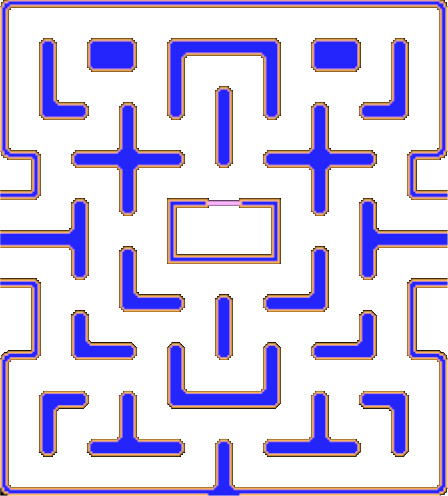
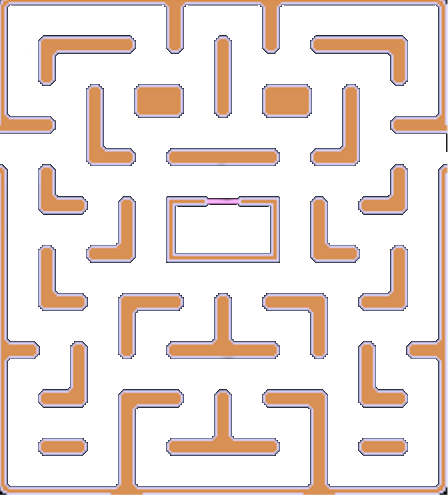
Add pellets to mazes and generate C++ headers from the maze images

diff --git a/lib/include/Mazes.hpp b/lib/include/Mazes.hpp
@@ -1,0 +1,140 @@
+#pragma once
+
+#include <array>
+
+constexpr std::array<std::array<int, 28>, 31> maze1_data = {{
+{0, 0, 0, 0, 0, 0, 0, 0, 0, 0, 0, 0, 0, 0, 0, 0, 0, 0, 0, 0, 0, 0, 0, 0, 0, 0, 0, 0},
+{0, 1, 1, 1, 1, 1, 1, 0, 0, 1, 1, 1, 1, 1, 1, 1, 1, 1, 1, 0, 0, 1, 1, 1, 1, 1, 1, 0},
+{0, 4, 0, 0, 0, 0, 1, 0, 0, 1, 0, 0, 0, 0, 0, 0, 0, 0, 1, 0, 0, 1, 0, 0, 0, 0, 4, 0},
+{0, 1, 0, 0, 0, 0, 1, 0, 0, 1, 0, 0, 0, 0, 0, 0, 0, 0, 1, 0, 0, 1, 0, 0, 0, 0, 1, 0},
+{0, 1, 1, 1, 1, 1, 1, 1, 1, 1, 1, 1, 1, 1, 1, 1, 1, 1, 1, 1, 1, 1, 1, 1, 1, 1, 1, 0},
+{0, 0, 0, 1, 0, 0, 1, 0, 0, 0, 0, 0, 1, 0, 0, 1, 0, 0, 0, 0, 0, 1, 0, 0, 1, 0, 0, 0},
+{0, 0, 0, 1, 0, 0, 1, 0, 0, 0, 0, 0, 1, 0, 0, 1, 0, 0, 0, 0, 0, 1, 0, 0, 1, 0, 0, 0},
+{0, 0, 0, 1, 0, 0, 1, 0, 0, 0, 0, 0, 1, 0, 0, 1, 0, 0, 0, 0, 0, 1, 0, 0, 1, 0, 0, 0},
+{2, 2, 2, 1, 0, 0, 1, 1, 1, 1, 1, 1, 1, 0, 0, 1, 1, 1, 1, 1, 1, 1, 0, 0, 1, 2, 2, 2},
+{0, 0, 0, 1, 0, 0, 0, 0, 0, 2, 0, 0, 0, 0, 0, 0, 0, 0, 2, 0, 0, 0, 0, 0, 1, 0, 0, 0},
+{0, 0, 0, 1, 0, 0, 0, 0, 0, 2, 0, 0, 0, 0, 0, 0, 0, 0, 2, 0, 0, 0, 0, 0, 1, 0, 0, 0},
+{0, 0, 0, 1, 2, 2, 2, 2, 2, 2, 2, 2, 2, 2, 2, 2, 2, 2, 2, 2, 2, 2, 2, 2, 1, 0, 0, 0},
+{0, 0, 0, 1, 0, 0, 0, 0, 0, 2, 0, 0, 0, 2, 2, 0, 0, 0, 2, 0, 0, 0, 0, 0, 1, 0, 0, 0},
+{0, 0, 0, 1, 0, 0, 0, 0, 0, 2, 0, 5, 5, 5, 5, 5, 5, 0, 2, 0, 0, 0, 0, 0, 1, 0, 0, 0},
+{0, 0, 0, 1, 0, 0, 2, 2, 2, 2, 0, 5, 5, 5, 5, 5, 5, 0, 2, 2, 2, 2, 0, 0, 1, 0, 0, 0},
+{0, 0, 0, 1, 0, 0, 2, 0, 0, 2, 0, 5, 5, 5, 5, 5, 5, 0, 2, 0, 0, 2, 0, 0, 1, 0, 0, 0},
+{0, 0, 0, 1, 0, 0, 2, 0, 0, 2, 0, 0, 0, 0, 0, 0, 0, 0, 2, 0, 0, 2, 0, 0, 1, 0, 0, 0},
+{2, 2, 2, 1, 2, 2, 2, 0, 0, 2, 2, 2, 2, 2, 2, 2, 2, 2, 2, 0, 0, 2, 2, 2, 1, 2, 2, 2},
+{0, 0, 0, 1, 0, 0, 0, 0, 0, 0, 0, 0, 2, 0, 0, 2, 0, 0, 0, 0, 0, 0, 0, 0, 1, 0, 0, 0},
+{0, 0, 0, 1, 0, 0, 0, 0, 0, 0, 0, 0, 2, 0, 0, 2, 0, 0, 0, 0, 0, 0, 0, 0, 1, 0, 0, 0},
+{0, 0, 0, 1, 1, 1, 1, 1, 1, 1, 1, 2, 2, 0, 0, 2, 2, 1, 1, 1, 1, 1, 1, 1, 1, 0, 0, 0},
+{0, 0, 0, 1, 0, 0, 0, 0, 0, 1, 0, 0, 0, 0, 0, 0, 0, 0, 1, 0, 0, 0, 0, 0, 1, 0, 0, 0},
+{0, 0, 0, 1, 0, 0, 0, 0, 0, 1, 0, 0, 0, 0, 0, 0, 0, 0, 1, 0, 0, 0, 0, 0, 1, 0, 0, 0},
+{0, 1, 1, 1, 1, 1, 1, 1, 1, 1, 1, 1, 1, 1, 1, 1, 1, 1, 1, 1, 1, 1, 1, 1, 1, 1, 1, 0},
+{0, 1, 0, 0, 0, 0, 1, 0, 0, 0, 0, 0, 1, 0, 0, 1, 0, 0, 0, 0, 0, 1, 0, 0, 0, 0, 1, 0},
+{0, 1, 0, 0, 0, 0, 1, 0, 0, 0, 0, 0, 1, 0, 0, 1, 0, 0, 0, 0, 0, 1, 0, 0, 0, 0, 1, 0},
+{0, 1, 0, 0, 0, 0, 1, 0, 0, 1, 1, 1, 1, 0, 0, 1, 1, 1, 1, 0, 0, 1, 0, 0, 0, 0, 1, 0},
+{0, 4, 0, 0, 0, 0, 1, 0, 0, 1, 0, 0, 0, 0, 0, 0, 0, 0, 1, 0, 0, 1, 0, 0, 0, 0, 4, 0},
+{0, 1, 0, 0, 0, 0, 1, 0, 0, 1, 0, 0, 0, 0, 0, 0, 0, 0, 1, 0, 0, 1, 0, 0, 0, 0, 1, 0},
+{0, 1, 1, 1, 1, 1, 1, 1, 1, 1, 1, 1, 1, 1, 1, 1, 1, 1, 1, 1, 1, 1, 1, 1, 1, 1, 1, 0},
+{0, 0, 0, 0, 0, 0, 0, 0, 0, 0, 0, 0, 0, 0, 0, 0, 0, 0, 0, 0, 0, 0, 0, 0, 0, 0, 0, 0},
+}};
+
+constexpr std::array<std::array<int, 28>, 31> maze2_data = {{
+{0, 0, 0, 0, 0, 0, 0, 0, 0, 0, 0, 0, 0, 0, 0, 0, 0, 0, 0, 0, 0, 0, 0, 0, 0, 0, 0, 0},
+{2, 2, 2, 2, 2, 2, 2, 0, 0, 1, 1, 1, 1, 1, 1, 1, 1, 1, 1, 0, 0, 2, 2, 2, 2, 2, 2, 2},
+{0, 0, 0, 0, 0, 0, 2, 0, 0, 1, 0, 0, 0, 0, 0, 0, 0, 0, 1, 0, 0, 2, 0, 0, 0, 0, 0, 0},
+{0, 0, 0, 0, 0, 0, 2, 0, 0, 1, 0, 0, 0, 0, 0, 0, 0, 0, 1, 0, 0, 2, 0, 0, 0, 0, 0, 0},
+{0, 4, 1, 1, 1, 1, 1, 1, 1, 1, 1, 1, 1, 0, 0, 1, 1, 1, 1, 1, 1, 1, 1, 1, 1, 1, 4, 0},
+{0, 1, 0, 0, 0, 0, 0, 0, 0, 1, 0, 0, 1, 0, 0, 1, 0, 0, 1, 0, 0, 0, 0, 0, 0, 0, 1, 0},
+{0, 1, 0, 0, 0, 0, 0, 0, 0, 1, 0, 0, 1, 0, 0, 1, 0, 0, 1, 0, 0, 0, 0, 0, 0, 0, 1, 0},
+{0, 1, 0, 0, 1, 1, 1, 1, 1, 1, 0, 0, 1, 0, 0, 1, 0, 0, 1, 1, 1, 1, 1, 1, 0, 0, 1, 0},
+{0, 1, 0, 0, 1, 0, 0, 0, 0, 2, 0, 0, 1, 1, 1, 1, 0, 0, 2, 0, 0, 0, 0, 1, 0, 0, 1, 0},
+{0, 1, 0, 0, 1, 0, 0, 0, 0, 2, 0, 0, 0, 0, 0, 0, 0, 0, 2, 0, 0, 0, 0, 1, 0, 0, 1, 0},
+{0, 1, 1, 1, 1, 1, 1, 0, 0, 2, 0, 0, 0, 0, 0, 0, 0, 0, 2, 0, 0, 1, 1, 1, 1, 1, 1, 0},
+{0, 0, 0, 0, 0, 0, 1, 0, 0, 2, 2, 2, 2, 2, 2, 2, 2, 2, 2, 0, 0, 1, 0, 0, 0, 0, 0, 0},
+{0, 0, 0, 0, 0, 0, 1, 0, 0, 2, 0, 0, 0, 2, 2, 0, 0, 0, 2, 0, 0, 1, 0, 0, 0, 0, 0, 0},
+{0, 1, 1, 1, 1, 1, 1, 0, 0, 2, 0, 5, 5, 5, 5, 5, 5, 0, 2, 0, 0, 1, 1, 1, 1, 1, 1, 0},
+{0, 1, 0, 0, 0, 0, 1, 0, 0, 2, 0, 5, 5, 5, 5, 5, 5, 0, 2, 0, 0, 1, 0, 0, 0, 0, 1, 0},
+{0, 1, 0, 0, 0, 0, 1, 2, 2, 2, 0, 5, 5, 5, 5, 5, 5, 0, 2, 2, 2, 1, 0, 0, 0, 0, 1, 0},
+{0, 1, 1, 1, 0, 0, 1, 0, 0, 2, 0, 0, 0, 0, 0, 0, 0, 0, 2, 0, 0, 1, 0, 0, 1, 1, 1, 0},
+{0, 0, 0, 1, 0, 0, 1, 0, 0, 2, 2, 2, 2, 2, 2, 2, 2, 2, 2, 0, 0, 1, 0, 0, 1, 0, 0, 0},
+{0, 0, 0, 1, 0, 0, 1, 0, 0, 0, 0, 2, 0, 0, 0, 0, 2, 0, 0, 0, 0, 1, 0, 0, 1, 0, 0, 0},
+{0, 0, 0, 1, 0, 0, 1, 0, 0, 0, 0, 2, 0, 0, 0, 0, 2, 0, 0, 0, 0, 1, 0, 0, 1, 0, 0, 0},
+{0, 0, 0, 1, 1, 1, 1, 1, 1, 1, 1, 1, 0, 0, 0, 0, 1, 1, 1, 1, 1, 1, 1, 1, 1, 0, 0, 0},
+{0, 0, 0, 1, 0, 0, 0, 0, 0, 0, 0, 1, 0, 0, 0, 0, 1, 0, 0, 0, 0, 0, 0, 0, 1, 0, 0, 0},
+{0, 0, 0, 1, 0, 0, 0, 0, 0, 0, 0, 1, 0, 0, 0, 0, 1, 0, 0, 0, 0, 0, 0, 0, 1, 0, 0, 0},
+{2, 2, 2, 1, 1, 1, 1, 0, 0, 1, 1, 1, 1, 1, 1, 1, 1, 1, 1, 0, 0, 1, 1, 1, 1, 2, 2, 2},
+{0, 0, 0, 1, 0, 0, 1, 0, 0, 1, 0, 0, 0, 0, 0, 0, 0, 0, 1, 0, 0, 1, 0, 0, 1, 0, 0, 0},
+{0, 0, 0, 1, 0, 0, 1, 0, 0, 1, 0, 0, 0, 0, 0, 0, 0, 0, 1, 0, 0, 1, 0, 0, 1, 0, 0, 0},
+{0, 4, 1, 1, 0, 0, 1, 1, 1, 1, 1, 1, 1, 0, 0, 1, 1, 1, 1, 1, 1, 1, 0, 0, 1, 1, 1, 0},
+{0, 1, 0, 0, 0, 0, 1, 0, 0, 0, 0, 0, 1, 0, 0, 1, 0, 0, 0, 0, 0, 1, 0, 0, 0, 0, 1, 0},
+{0, 1, 0, 0, 0, 0, 1, 0, 0, 0, 0, 0, 1, 0, 0, 1, 0, 0, 0, 0, 0, 1, 0, 0, 0, 0, 1, 0},
+{0, 1, 1, 1, 1, 1, 1, 1, 1, 1, 1, 1, 1, 1, 1, 1, 1, 1, 1, 1, 1, 1, 1, 1, 1, 1, 1, 0},
+{0, 0, 0, 0, 0, 0, 0, 0, 0, 0, 0, 0, 0, 0, 0, 0, 0, 0, 0, 0, 0, 0, 0, 0, 0, 0, 0, 0},
+}};
+
+constexpr std::array<std::array<int, 28>, 31> maze3_data = {{
+{0, 0, 0, 0, 0, 0, 0, 0, 0, 0, 0, 0, 0, 0, 0, 0, 0, 0, 0, 0, 0, 0, 0, 0, 0, 0, 0, 0},
+{0, 1, 1, 1, 1, 1, 1, 1, 1, 1, 0, 0, 1, 1, 1, 1, 0, 0, 1, 1, 1, 1, 1, 1, 1, 1, 1, 0},
+{0, 1, 0, 0, 0, 0, 0, 0, 0, 1, 0, 0, 1, 0, 0, 1, 0, 0, 1, 0, 0, 0, 0, 0, 0, 0, 1, 0},
+{0, 4, 0, 0, 0, 0, 0, 0, 0, 1, 0, 0, 1, 0, 0, 1, 0, 0, 1, 0, 0, 0, 0, 0, 0, 0, 4, 0},
+{0, 1, 0, 0, 1, 1, 1, 1, 1, 1, 1, 1, 1, 0, 0, 1, 1, 1, 1, 1, 1, 1, 1, 1, 0, 0, 1, 0},
+{0, 1, 0, 0, 1, 0, 0, 1, 0, 0, 0, 0, 1, 0, 0, 1, 0, 0, 0, 0, 1, 0, 0, 1, 0, 0, 1, 0},
+{0, 1, 1, 1, 1, 0, 0, 1, 0, 0, 0, 0, 1, 0, 0, 1, 0, 0, 0, 0, 1, 0, 0, 1, 1, 1, 1, 0},
+{0, 0, 0, 0, 1, 0, 0, 1, 0, 0, 0, 0, 1, 0, 0, 1, 0, 0, 0, 0, 1, 0, 0, 1, 0, 0, 0, 0},
+{0, 0, 0, 0, 1, 0, 0, 1, 1, 1, 1, 1, 1, 1, 1, 1, 1, 1, 1, 1, 1, 0, 0, 1, 0, 0, 0, 0},
+{1, 1, 1, 1, 1, 0, 0, 0, 0, 2, 0, 0, 0, 0, 0, 0, 0, 0, 2, 0, 0, 0, 0, 1, 1, 1, 1, 1},
+{0, 1, 0, 0, 1, 0, 0, 0, 0, 2, 0, 0, 0, 0, 0, 0, 0, 0, 2, 0, 0, 0, 0, 2, 0, 0, 1, 0},
+{0, 1, 0, 0, 2, 2, 2, 2, 2, 2, 2, 2, 2, 2, 2, 2, 2, 2, 2, 2, 2, 2, 2, 2, 0, 0, 1, 0},
+{0, 1, 0, 0, 0, 0, 2, 0, 0, 2, 0, 0, 0, 2, 2, 0, 0, 0, 2, 0, 0, 2, 0, 0, 0, 0, 1, 0},
+{0, 1, 0, 0, 0, 0, 2, 0, 0, 2, 0, 5, 5, 5, 5, 5, 5, 0, 2, 0, 0, 2, 0, 0, 0, 0, 1, 0},
+{0, 1, 2, 2, 2, 2, 2, 0, 0, 2, 0, 5, 5, 5, 5, 5, 5, 0, 2, 0, 0, 2, 2, 2, 2, 2, 1, 0},
+{0, 1, 0, 0, 2, 0, 0, 0, 0, 2, 0, 5, 5, 5, 5, 5, 5, 0, 2, 0, 0, 0, 0, 2, 0, 0, 1, 0},
+{0, 1, 0, 0, 2, 0, 0, 0, 0, 2, 0, 0, 0, 0, 0, 0, 0, 0, 2, 0, 0, 0, 0, 2, 0, 0, 1, 0},
+{0, 1, 0, 0, 2, 2, 2, 2, 2, 2, 2, 2, 2, 2, 2, 2, 2, 2, 2, 2, 2, 2, 2, 2, 0, 0, 1, 0},
+{0, 1, 0, 0, 0, 0, 2, 0, 0, 0, 0, 0, 2, 0, 0, 2, 0, 0, 0, 0, 0, 2, 0, 0, 0, 0, 1, 0},
+{0, 1, 0, 0, 0, 0, 2, 0, 0, 0, 0, 0, 2, 0, 0, 2, 0, 0, 0, 0, 0, 2, 0, 0, 0, 0, 1, 0},
+{0, 1, 1, 1, 1, 1, 1, 0, 0, 1, 1, 1, 1, 0, 0, 1, 1, 1, 1, 0, 0, 1, 1, 1, 1, 1, 1, 0},
+{0, 0, 0, 1, 0, 0, 1, 0, 0, 1, 0, 0, 0, 0, 0, 0, 0, 0, 1, 0, 0, 1, 0, 0, 1, 0, 0, 0},
+{0, 0, 0, 1, 0, 0, 1, 0, 0, 1, 0, 0, 0, 0, 0, 0, 0, 0, 1, 0, 0, 1, 0, 0, 1, 0, 0, 0},
+{0, 4, 1, 1, 0, 0, 1, 1, 1, 1, 1, 1, 1, 1, 1, 1, 1, 1, 1, 1, 1, 1, 0, 0, 1, 1, 4, 0},
+{0, 1, 0, 0, 0, 0, 1, 0, 0, 0, 0, 0, 1, 0, 0, 1, 0, 0, 0, 0, 0, 1, 0, 0, 0, 0, 1, 0},
+{0, 1, 0, 0, 0, 0, 1, 0, 0, 0, 0, 0, 1, 0, 0, 1, 0, 0, 0, 0, 0, 1, 0, 0, 0, 0, 1, 0},
+{0, 1, 1, 1, 1, 1, 1, 0, 0, 1, 1, 1, 1, 0, 0, 1, 1, 1, 1, 0, 0, 1, 1, 1, 1, 1, 1, 0},
+{0, 1, 0, 0, 0, 0, 1, 0, 0, 1, 0, 0, 0, 0, 0, 0, 0, 0, 1, 0, 0, 1, 0, 0, 0, 0, 1, 0},
+{0, 1, 0, 0, 0, 0, 1, 0, 0, 1, 0, 0, 0, 0, 0, 0, 0, 0, 1, 0, 0, 1, 0, 0, 0, 0, 1, 0},
+{0, 1, 1, 1, 1, 1, 1, 0, 0, 1, 1, 1, 1, 1, 1, 1, 1, 1, 1, 0, 0, 1, 1, 1, 1, 1, 1, 0},
+{0, 0, 0, 0, 0, 0, 0, 0, 0, 0, 0, 0, 0, 0, 0, 0, 0, 0, 0, 0, 0, 0, 0, 0, 0, 0, 0, 0},
+}};
+
+constexpr std::array<std::array<int, 28>, 31> maze4_data = {{
+{0, 0, 0, 0, 0, 0, 0, 0, 0, 0, 0, 0, 0, 0, 0, 0, 0, 0, 0, 0, 0, 0, 0, 0, 0, 0, 0, 0},
+{0, 1, 1, 1, 1, 1, 1, 1, 1, 1, 1, 1, 1, 1, 1, 1, 1, 1, 1, 1, 1, 1, 1, 1, 1, 1, 1, 0},
+{0, 1, 0, 0, 1, 0, 0, 0, 0, 1, 0, 0, 0, 0, 0, 0, 0, 0, 1, 0, 0, 0, 0, 1, 0, 0, 1, 0},
+{0, 4, 0, 0, 1, 0, 0, 0, 0, 1, 0, 0, 0, 0, 0, 0, 0, 0, 1, 0, 0, 0, 0, 1, 0, 0, 4, 0},
+{0, 1, 0, 0, 1, 0, 0, 0, 0, 1, 0, 0, 1, 1, 1, 1, 0, 0, 1, 0, 0, 0, 0, 1, 0, 0, 1, 0},
+{0, 1, 0, 0, 1, 1, 1, 1, 1, 1, 0, 0, 1, 0, 0, 1, 0, 0, 1, 1, 1, 1, 1, 1, 0, 0, 1, 0},
+{0, 1, 0, 0, 0, 0, 1, 0, 0, 1, 0, 0, 1, 0, 0, 1, 0, 0, 1, 0, 0, 1, 0, 0, 0, 0, 1, 0},
+{0, 1, 0, 0, 0, 0, 1, 0, 0, 1, 0, 0, 1, 0, 0, 1, 0, 0, 1, 0, 0, 1, 0, 0, 0, 0, 1, 0},
+{0, 1, 1, 1, 1, 1, 1, 0, 0, 1, 1, 1, 1, 0, 0, 1, 1, 1, 1, 0, 0, 1, 1, 1, 1, 1, 1, 0},
+{0, 0, 0, 1, 0, 0, 0, 0, 0, 0, 0, 0, 2, 0, 0, 2, 0, 0, 0, 0, 0, 0, 0, 0, 1, 0, 0, 0},
+{0, 0, 0, 1, 0, 0, 0, 0, 0, 0, 0, 0, 2, 0, 0, 2, 0, 0, 0, 0, 0, 0, 0, 0, 1, 0, 0, 0},
+{0, 0, 0, 1, 1, 1, 1, 0, 0, 2, 2, 2, 2, 2, 2, 2, 2, 2, 2, 0, 0, 1, 1, 1, 1, 0, 0, 0},
+{0, 0, 0, 2, 0, 0, 1, 0, 0, 2, 0, 0, 0, 2, 2, 0, 0, 0, 2, 0, 0, 1, 0, 0, 2, 0, 0, 0},
+{2, 2, 2, 2, 0, 0, 1, 0, 0, 2, 0, 5, 5, 5, 5, 5, 5, 0, 2, 0, 0, 1, 0, 0, 2, 2, 2, 2},
+{0, 0, 0, 0, 0, 0, 1, 2, 2, 2, 0, 5, 5, 5, 5, 5, 5, 0, 2, 2, 2, 1, 0, 0, 0, 0, 0, 0},
+{0, 0, 0, 0, 0, 0, 1, 0, 0, 2, 0, 5, 5, 5, 5, 5, 5, 0, 2, 0, 0, 1, 0, 0, 0, 0, 0, 0},
+{2, 2, 2, 2, 0, 0, 1, 0, 0, 2, 0, 0, 0, 0, 0, 0, 0, 0, 2, 0, 0, 1, 0, 0, 2, 2, 2, 2},
+{0, 0, 0, 2, 0, 0, 1, 0, 0, 2, 2, 2, 2, 2, 2, 2, 2, 2, 2, 0, 0, 1, 0, 0, 2, 0, 0, 0},
+{0, 0, 0, 1, 1, 1, 1, 0, 0, 0, 0, 0, 2, 0, 0, 2, 0, 0, 0, 0, 0, 1, 1, 1, 1, 0, 0, 0},
+{0, 0, 0, 1, 0, 0, 1, 0, 0, 0, 0, 0, 2, 0, 0, 2, 0, 0, 0, 0, 0, 1, 0, 0, 1, 0, 0, 0},
+{0, 0, 0, 1, 0, 0, 1, 1, 1, 1, 1, 1, 2, 0, 0, 2, 1, 1, 1, 1, 1, 1, 0, 0, 1, 0, 0, 0},
+{0, 0, 0, 1, 0, 0, 0, 0, 0, 1, 0, 0, 2, 0, 0, 2, 0, 0, 1, 0, 0, 0, 0, 0, 1, 0, 0, 0},
+{0, 0, 0, 1, 0, 0, 0, 0, 0, 1, 0, 0, 2, 0, 0, 2, 0, 0, 1, 0, 0, 0, 0, 0, 1, 0, 0, 0},
+{0, 1, 1, 1, 1, 1, 1, 1, 1, 1, 0, 0, 2, 2, 2, 2, 0, 0, 1, 1, 1, 1, 1, 1, 1, 1, 1, 0},
+{0, 1, 0, 0, 0, 0, 1, 0, 0, 1, 0, 0, 0, 0, 0, 0, 0, 0, 1, 0, 0, 1, 0, 0, 0, 0, 1, 0},
+{0, 1, 0, 0, 0, 0, 1, 0, 0, 1, 0, 0, 0, 0, 0, 0, 0, 0, 1, 0, 0, 1, 0, 0, 0, 0, 1, 0},
+{0, 1, 0, 0, 1, 1, 1, 0, 0, 1, 1, 1, 1, 1, 1, 1, 1, 1, 1, 0, 0, 1, 1, 1, 0, 0, 1, 0},
+{0, 4, 0, 0, 1, 0, 0, 0, 0, 0, 0, 0, 1, 0, 0, 1, 0, 0, 0, 0, 0, 0, 0, 1, 0, 0, 4, 0},
+{0, 1, 0, 0, 1, 0, 0, 0, 0, 0, 0, 0, 1, 0, 0, 1, 0, 0, 0, 0, 0, 0, 0, 1, 0, 0, 1, 0},
+{0, 1, 1, 1, 1, 1, 1, 1, 1, 1, 1, 1, 1, 0, 0, 1, 1, 1, 1, 1, 1, 1, 1, 1, 1, 1, 1, 0},
+{0, 0, 0, 0, 0, 0, 0, 0, 0, 0, 0, 0, 0, 0, 0, 0, 0, 0, 0, 0, 0, 0, 0, 0, 0, 0, 0, 0},
+}};
+

diff --git a/assets/mazes_to_header.py b/assets/mazes_to_header.py
@@ -1,0 +1,31 @@
+from PIL import Image
+from pathlib import Path
+import math
+import sys;
+
+color_mapping = {
+    0xFFFFFF: 2, # path
+    0x000000: 0, # wall
+    0xFF0000: 5, # pen
+    0xFFFF00: 2, # pen door
+    0x00FF00: 4, # super pellet
+    0x0000FF: 1 # pellet
+}
+
+def fromRGB(c):
+    return (c[0]<<16) + (c[1]<<8) + c[2]
+
+def dump_as_array(path):
+    img  = Image.open(path)
+    w = img.size[0]
+    h = img.size[1]
+    name = Path(path).stem
+    print("constexpr std::array<std::array<int, {}>, {}> {} = {{{{".format(w, h, name))
+    for y in range(0, h):
+        print("{{{}{}{}".format(", ".join([str(color_mapping[fromRGB(img.getpixel((x, y)))]) for x in range(0, w)]), "}", "," if x < h-1 else "", "\n"))
+    print("}};\n")
+
+print("{}\n".format("#pragma once"))
+print("{}\n".format("#include <array>"))
+for n in range(1, len(sys.argv)):
+    dump_as_array(sys.argv[n])

diff --git a/lib/include/Board.hpp b/lib/include/Board.hpp
@@ -2,6 +2,7 @@
 
 #include "Direction.hpp"
 #include "Position.hpp"
+#include "Mazes.hpp"
 #include <array>
 #include <cstdint>
 #include <vector>
